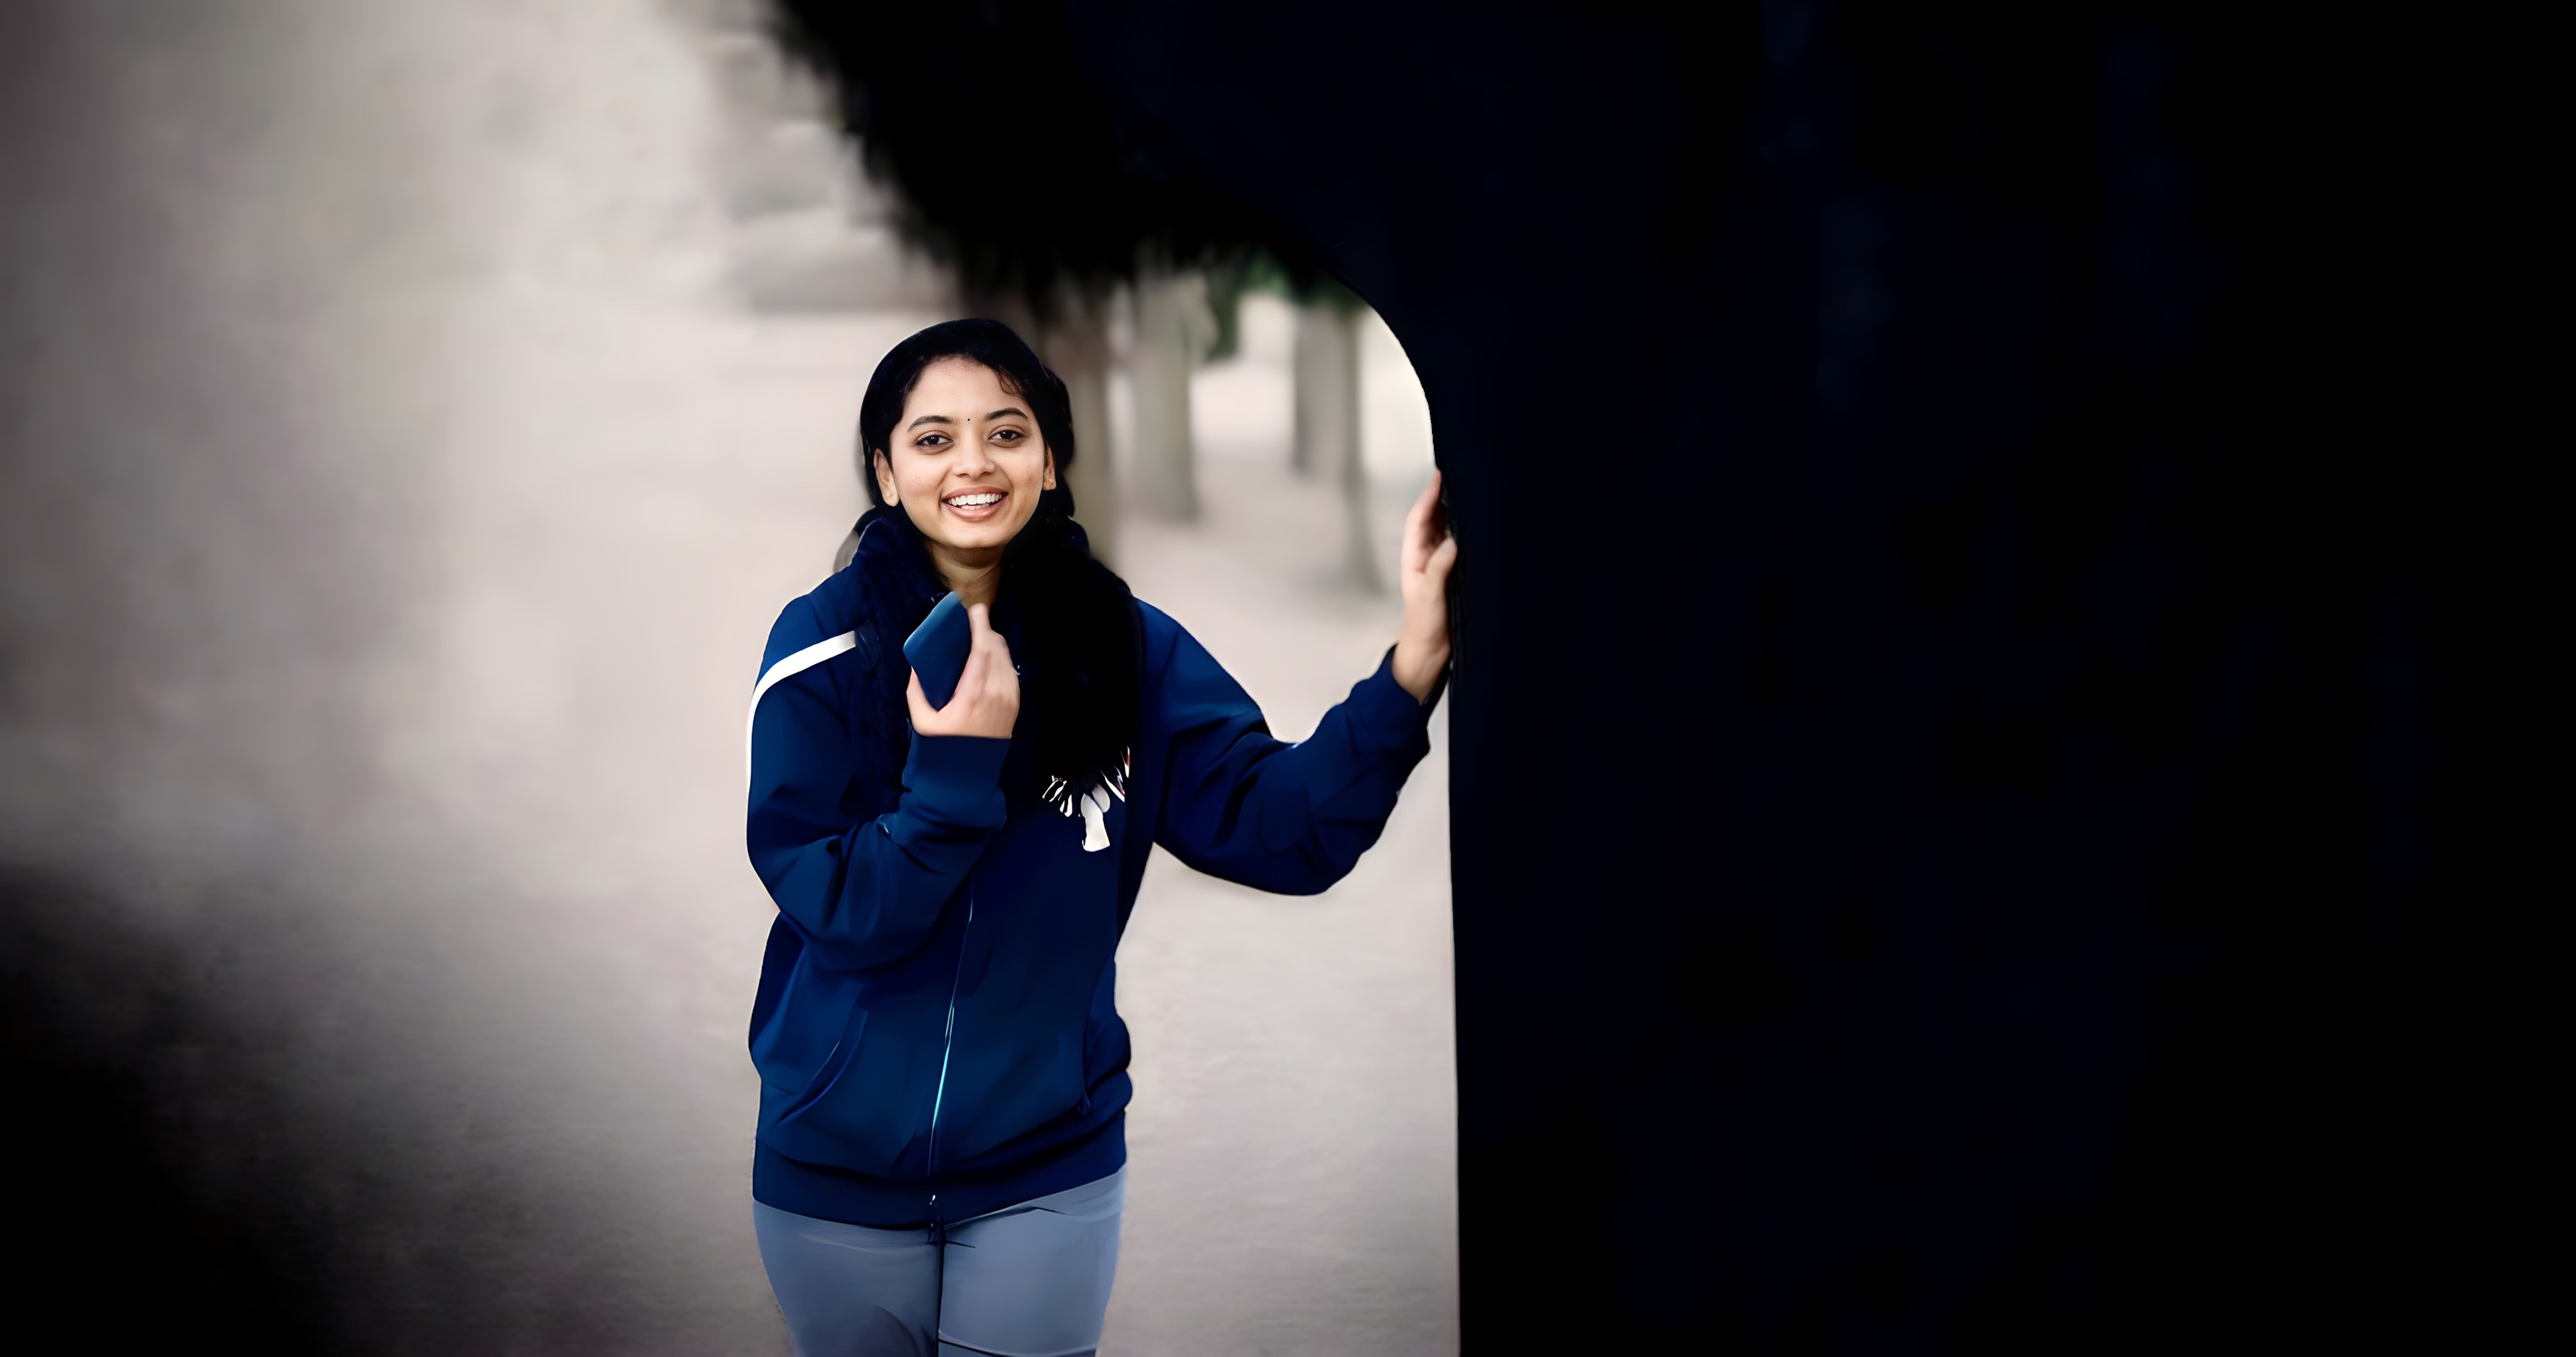
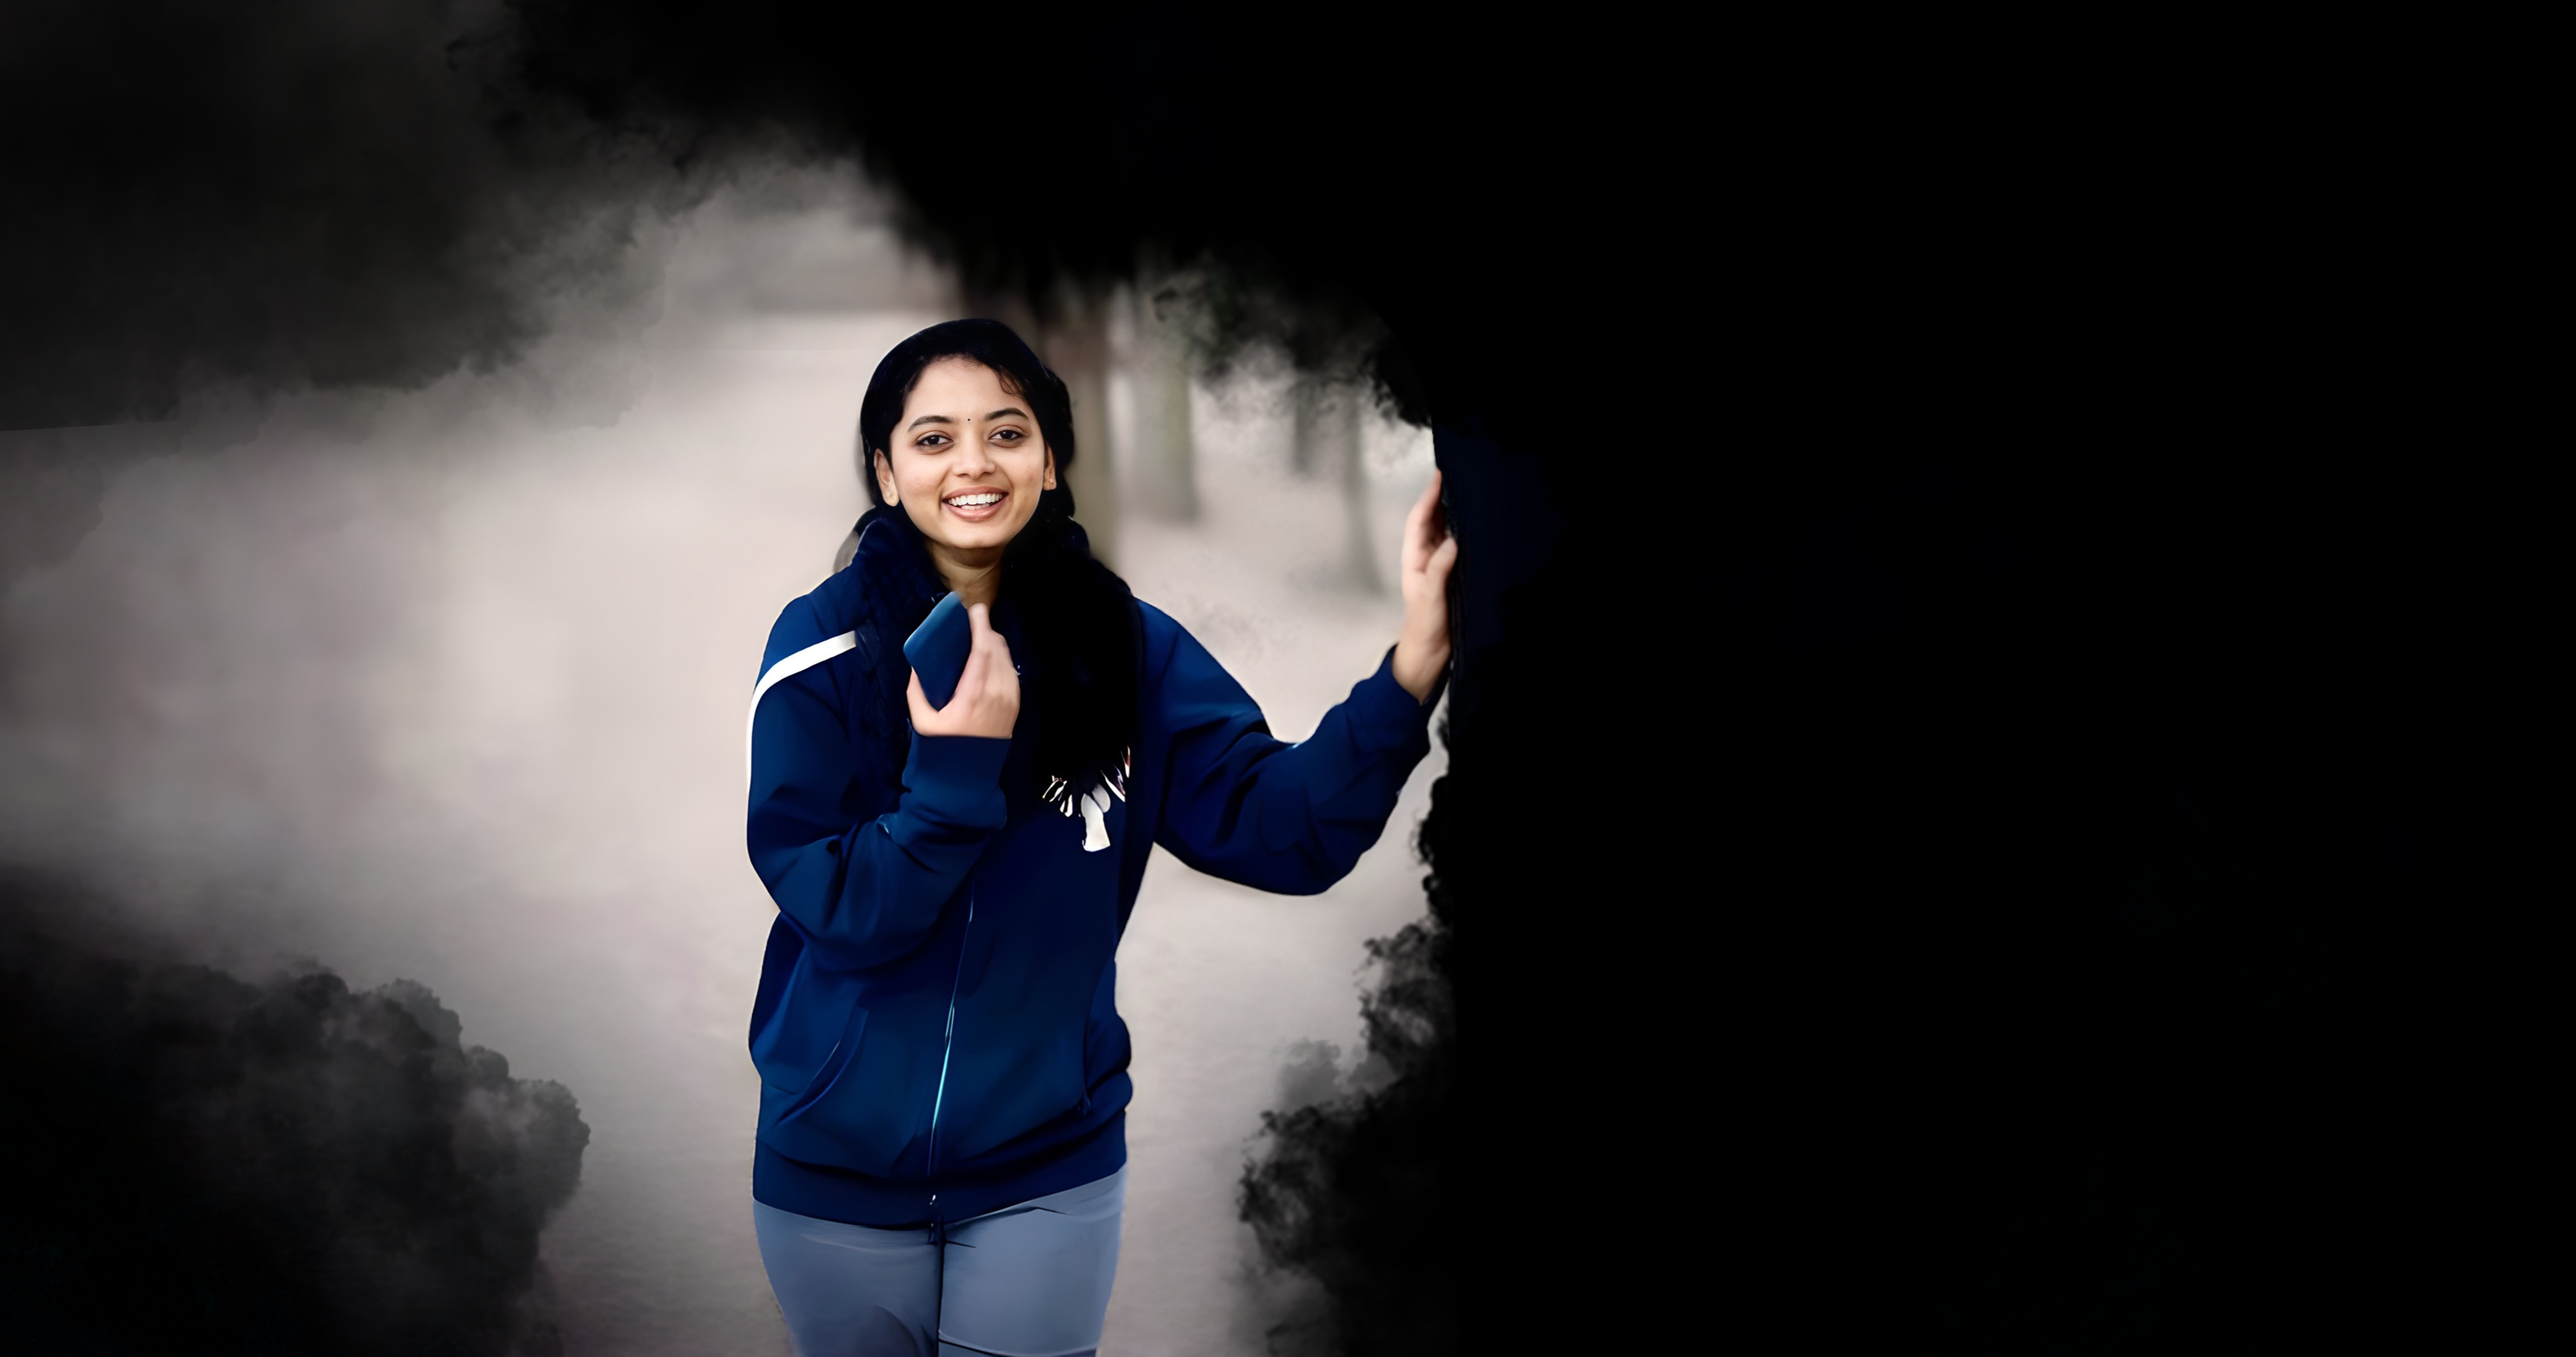
changes to UI
made changes to UI
Name, Skills, background image

diff --git a/src/skills/SkillsMenu.js b/src/skills/SkillsMenu.js
@@ -3,6 +3,7 @@ import classNames from "classnames";
 import "../styles/skillsMenu.css";
 import skills from "./skillsData";
 
+
 export default class SkillsMenu extends Component {
   constructor(props) {
     super(props);
@@ -18,12 +19,12 @@ export default class SkillsMenu extends Component {
   };
 
   renderContent = (skills) => {
-    return skills.map((skill, index) => (
+        return skills.map((skill, index) => (      
       <div
         key={index}
         className={`skill-sub-container-${this.state.activeMenuItem}`}
       >
-        <h3>{skill.title}</h3>
+               <h3>&#x2022; {skill.title}</h3>
       </div>
     ));
   };
@@ -42,6 +43,7 @@ export default class SkillsMenu extends Component {
             })}
             onClick={() => this.handleMenuItemClick(index + 1)}
           >
+          {/* <img src="img_girl.jpg" alt={{item}+".png"}></img> */}           
             <h2 className="skill-title">{item}</h2>
           </div>
         ))}

diff --git a/src/styles/skillsMenu.css b/src/styles/skillsMenu.css
@@ -41,11 +41,26 @@
 }
 
 .skill-sub-container {
-  margin-top: 0rem;
+  margin-top: 3.5rem;
   display: flex;
   flex-direction: column;
   gap: 0rem;
   color:white;
+}
+
+.skill-sub-container-2 h3{
+  margin: 0.2rem;
+  background: -webkit-linear-gradient(rgb(255, 255, 255), rgb(178, 255, 205));
+  -webkit-background-clip: text;
+  -webkit-text-fill-color: transparent;
+}
+
+.skill-sub-container-1 h3{
+  margin: 0.2rem;
+  background: -webkit-linear-gradient(rgb(255, 255, 255), rgb(139, 154, 255));
+  -webkit-background-clip: text;
+  -webkit-text-fill-color: transparent;
+
 }
 
 @media (max-width: 1100px) {

diff --git a/src/myName/MyName.js b/src/myName/MyName.js
@@ -1,12 +1,14 @@
 import React from "react";
 import "../styles/myName.css";
+import name from "../assets/name.png";
 import Typewriter from 'typewriter-effect';
 
 
 const MyName = () => {
   return (
     <div id="myName">
-      <h1>Sri Rupa Draksharam</h1>
+      {/* <h1>Sri Rupa Draksharam</h1> */}
+      <img src={name} />
       <div className="container">
       <Typewriter
         options={{

diff --git a/src/projects/projectsData.js b/src/projects/projectsData.js
@@ -1,6 +1,6 @@
 import NMM from "../assets/NMM.png";
 import portfolioImage from "../assets/portfolioImage.png"
-import weatherApp from "../assets/weatherApp.png"
+import weatherApp from "../assets/weatherApp.jpg"
 
 const projects = {
   1: {

diff --git a/src/styles/myName.css b/src/styles/myName.css
@@ -11,9 +11,10 @@
 }
 .container{
   width:3 rem;
-  font-size: 1.5rem;
+  font-size: 1.2rem;
+  padding-left: 8px;
   display: inline-block;
-  color: rgb(2, 2, 15);
+  color:white;
 }
 h1{
   font-size: 1.8rem;

diff --git a/src/skills/skillsData.js b/src/skills/skillsData.js
@@ -41,7 +41,7 @@ const skills = {
      
     },
     {
-      title: "python",
+      title: "Python",
      
     },
     {
